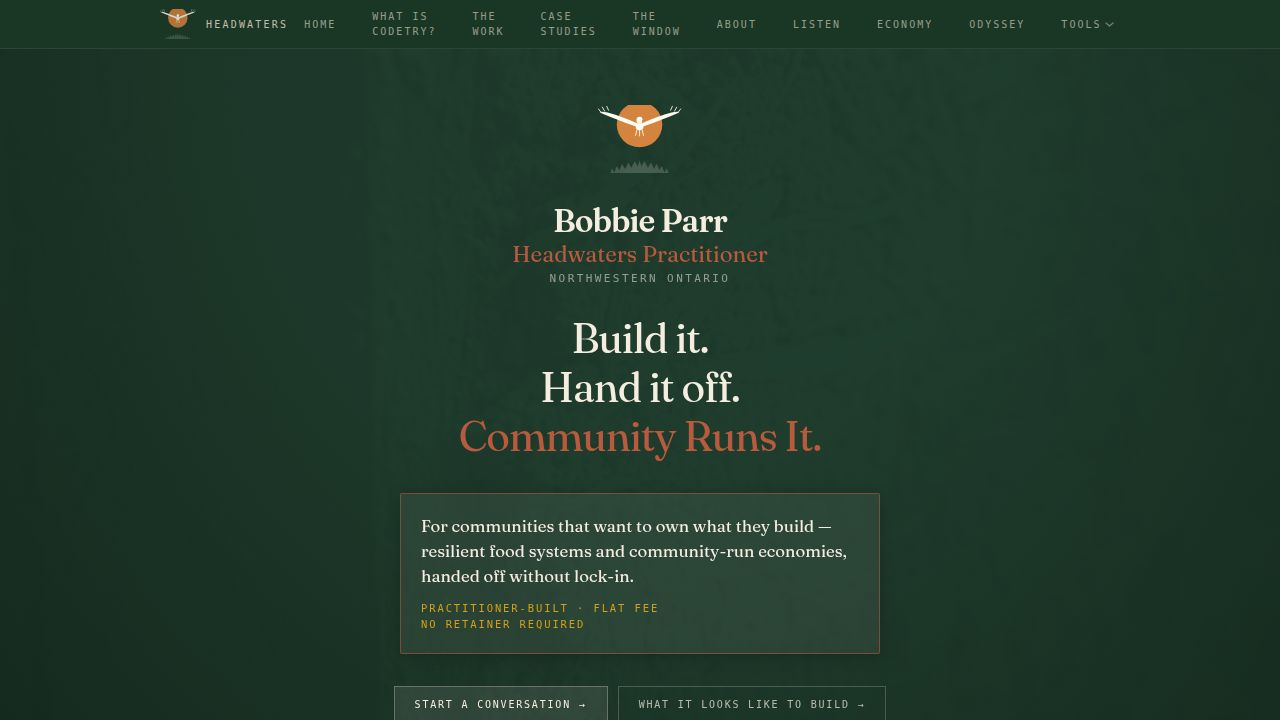
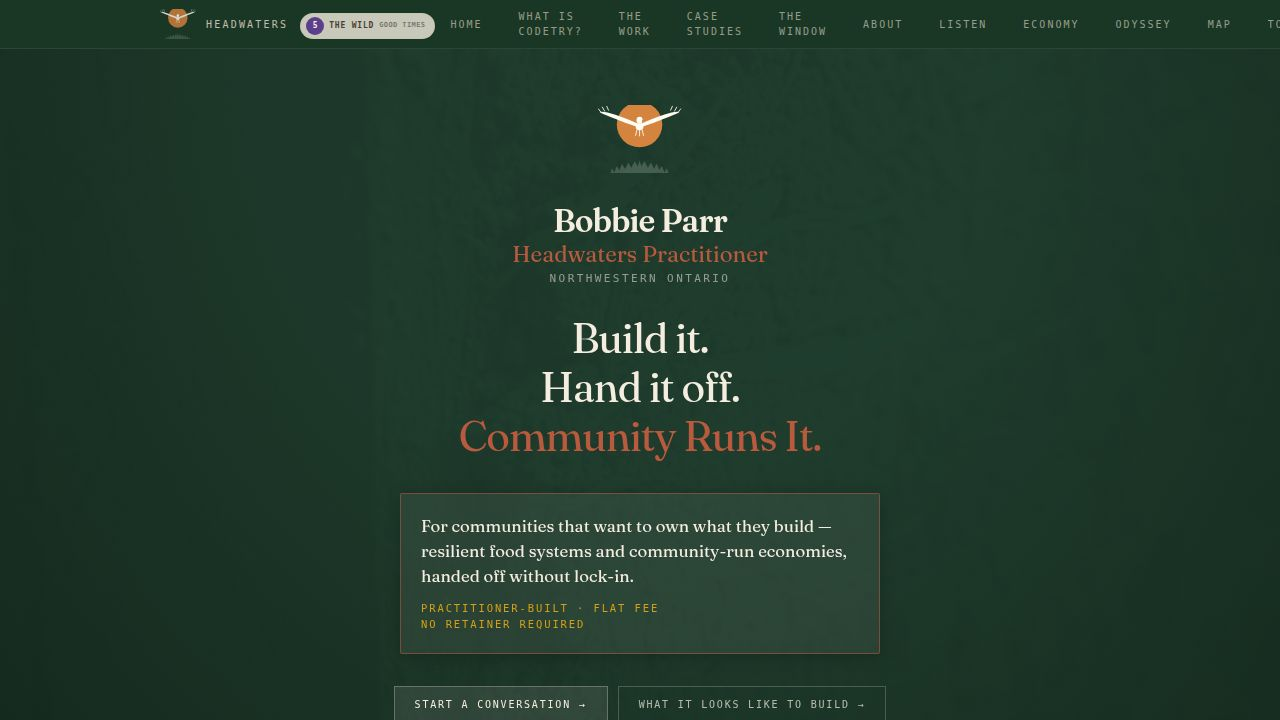
Add NeighbourhoodBadge (Z5 — The Wild) to Codetry Ship nav
Task: #1609 — Add the zone map badge to the Codetry Ship nav and any remaining tools

## What changed
- Created `artifacts/codetry-ship/src/components/NeighbourhoodBadge.tsx`
  - Matches the style used across all other tools (north-star, gather, practitioners-guide-v2, etc.)
  - Pill shape, zone number circle, zone name, and status label ("Good Times" / "Standby")
  - Zone colour is #5B3E8C (The Wild / Zone 5 purple) to match zones.ts
  - Links to /map (the canonical zone map page, which lives inside codetry-ship)
  - Accepts `standby` prop for future live status wiring

- Updated `artifacts/codetry-ship/src/components/SiteNav.tsx`
  - Imported NeighbourhoodBadge
  - Desktop nav: badge rendered next to the wordmark (hidden on mobile breakpoint)
  - Mobile drawer: badge rendered in the footer section above the "headwaters · dryden, ontario" tagline

## Zone assignment
Codetry Ship is Z5–A (The Wild) per zones.ts — the public window for services, bio, case studies, and the economy. Not Z0 or Z2 as the task spec suggested as possibilities.

## No deviations from task scope
Badge style, placement, and zone assignment all match existing conventions exactly.

Replit-Task-Id: 5ec21ced-26a3-4cdd-b492-5423f9b4fb59

diff --git a/artifacts/codetry-ship/src/components/SiteNav.tsx b/artifacts/codetry-ship/src/components/SiteNav.tsx
@@ -1,6 +1,7 @@
 import { useState, useEffect, useRef } from "react";
 import { useLocation } from "wouter";
 import { getStoredOwnerToken, setStoredOwnerToken } from "@/lib/api";
+import { NeighbourhoodBadge } from "@/components/NeighbourhoodBadge";
 
 interface NavLink {
   href: string;
@@ -136,26 +137,31 @@ export function SiteNav() {
         <div className="mx-auto max-w-[64rem] px-5 sm:px-8 flex items-center justify-between h-12">
 
           {/* ── wordmark ── */}
-          <a
-            href={`${base}/`}
-            className="flex items-center gap-2.5 shrink-0 group"
-            aria-label="Headwaters home"
-            data-testid="nav-home-link"
-          >
-            <img
-              aria-hidden="true"
-              src={`${import.meta.env.BASE_URL}eagle-mark.svg`}
-              alt=""
-              className="opacity-90 group-hover:opacity-100 transition-opacity shrink-0"
-              style={{ width: 36, height: 30, objectFit: "contain" }}
-            />
-            <span
-              className="font-mono text-[10px] uppercase tracking-[0.22em] hidden sm:inline"
-              style={{ color: dark ? "hsl(38 36% 86%)" : "hsl(var(--foreground))", opacity: 0.8 }}
+          <div className="flex items-center gap-3 shrink-0">
+            <a
+              href={`${base}/`}
+              className="flex items-center gap-2.5 group"
+              aria-label="Headwaters home"
+              data-testid="nav-home-link"
             >
-              Headwaters
-            </span>
-          </a>
+              <img
+                aria-hidden="true"
+                src={`${import.meta.env.BASE_URL}eagle-mark.svg`}
+                alt=""
+                className="opacity-90 group-hover:opacity-100 transition-opacity shrink-0"
+                style={{ width: 36, height: 30, objectFit: "contain" }}
+              />
+              <span
+                className="font-mono text-[10px] uppercase tracking-[0.22em] hidden sm:inline"
+                style={{ color: dark ? "hsl(38 36% 86%)" : "hsl(var(--foreground))", opacity: 0.8 }}
+              >
+                Headwaters
+              </span>
+            </a>
+            <div className="hidden sm:block">
+              <NeighbourhoodBadge zoneNumber={5} zoneName="The Wild" />
+            </div>
+          </div>
 
           {/* ── desktop links ── */}
           <div className="hidden sm:flex items-center gap-1">
@@ -450,9 +456,10 @@ export function SiteNav() {
             </button>
           ) : null}
           <div
-            className="mt-3 pt-3 border-t"
+            className="mt-3 pt-3 border-t flex flex-col items-center gap-2"
             style={{ borderColor: "hsl(var(--card-border))" }}
           >
+            <NeighbourhoodBadge zoneNumber={5} zoneName="The Wild" />
             <p
               className="font-mono text-[9px] uppercase tracking-[0.22em] text-center"
               style={{ color: "hsl(var(--muted-foreground))", opacity: 0.6 }}

diff --git a/artifacts/codetry-ship/src/components/NeighbourhoodBadge.tsx b/artifacts/codetry-ship/src/components/NeighbourhoodBadge.tsx
@@ -1,0 +1,76 @@
+const MAP_URL = "/map";
+
+interface NeighbourhoodBadgeProps {
+  zoneNumber: number;
+  zoneName: string;
+  standby?: boolean;
+}
+
+export function NeighbourhoodBadge({
+  zoneNumber,
+  zoneName,
+  standby = false,
+}: NeighbourhoodBadgeProps) {
+  return (
+    <a
+      href={MAP_URL}
+      title={`Zone ${zoneNumber} — ${zoneName} · View the neighbourhood map`}
+      style={{
+        display: "inline-flex",
+        alignItems: "center",
+        gap: 5,
+        padding: "3px 8px 3px 5px",
+        borderRadius: 999,
+        border: "1px solid rgba(200,191,167,0.55)",
+        background: "rgba(244,237,224,0.80)",
+        textDecoration: "none",
+        flexShrink: 0,
+        lineHeight: 1,
+      }}
+    >
+      <span
+        style={{
+          display: "inline-flex",
+          alignItems: "center",
+          justifyContent: "center",
+          width: 18,
+          height: 18,
+          borderRadius: "50%",
+          background: standby ? "#b85a3e" : "#5B3E8C",
+          fontFamily: "monospace",
+          fontSize: 8,
+          fontWeight: 900,
+          color: "#f4ede0",
+          flexShrink: 0,
+        }}
+      >
+        {zoneNumber}
+      </span>
+      <span
+        style={{
+          fontFamily: "monospace",
+          fontSize: 8,
+          fontWeight: 700,
+          letterSpacing: "0.1em",
+          textTransform: "uppercase",
+          color: "#4a4035",
+          whiteSpace: "nowrap",
+        }}
+      >
+        {zoneName}
+      </span>
+      <span
+        style={{
+          fontFamily: "monospace",
+          fontSize: 7,
+          color: standby ? "#b85a3e" : "#7a7a6e",
+          fontWeight: 600,
+          letterSpacing: "0.06em",
+          textTransform: "uppercase",
+        }}
+      >
+        {standby ? "Standby" : "Good Times"}
+      </span>
+    </a>
+  );
+}
